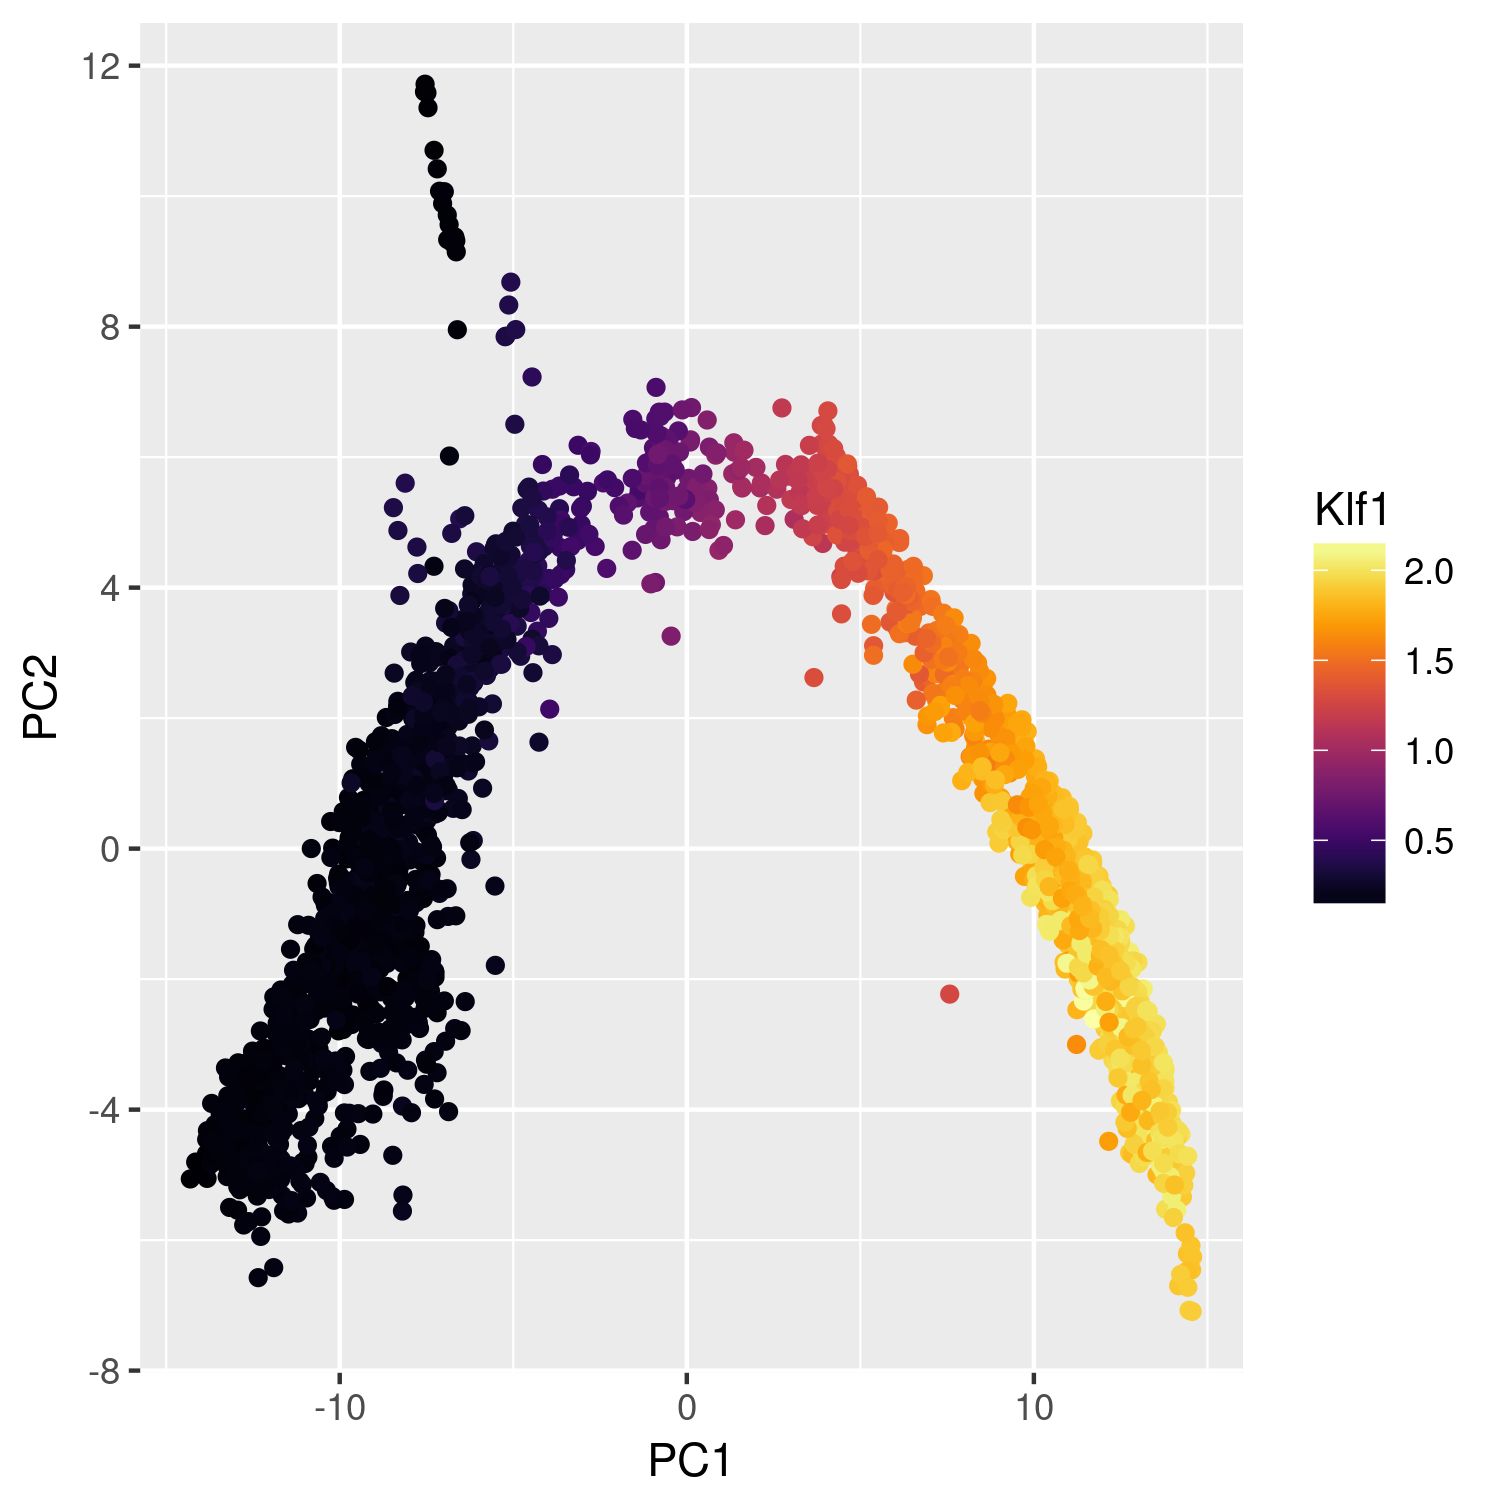
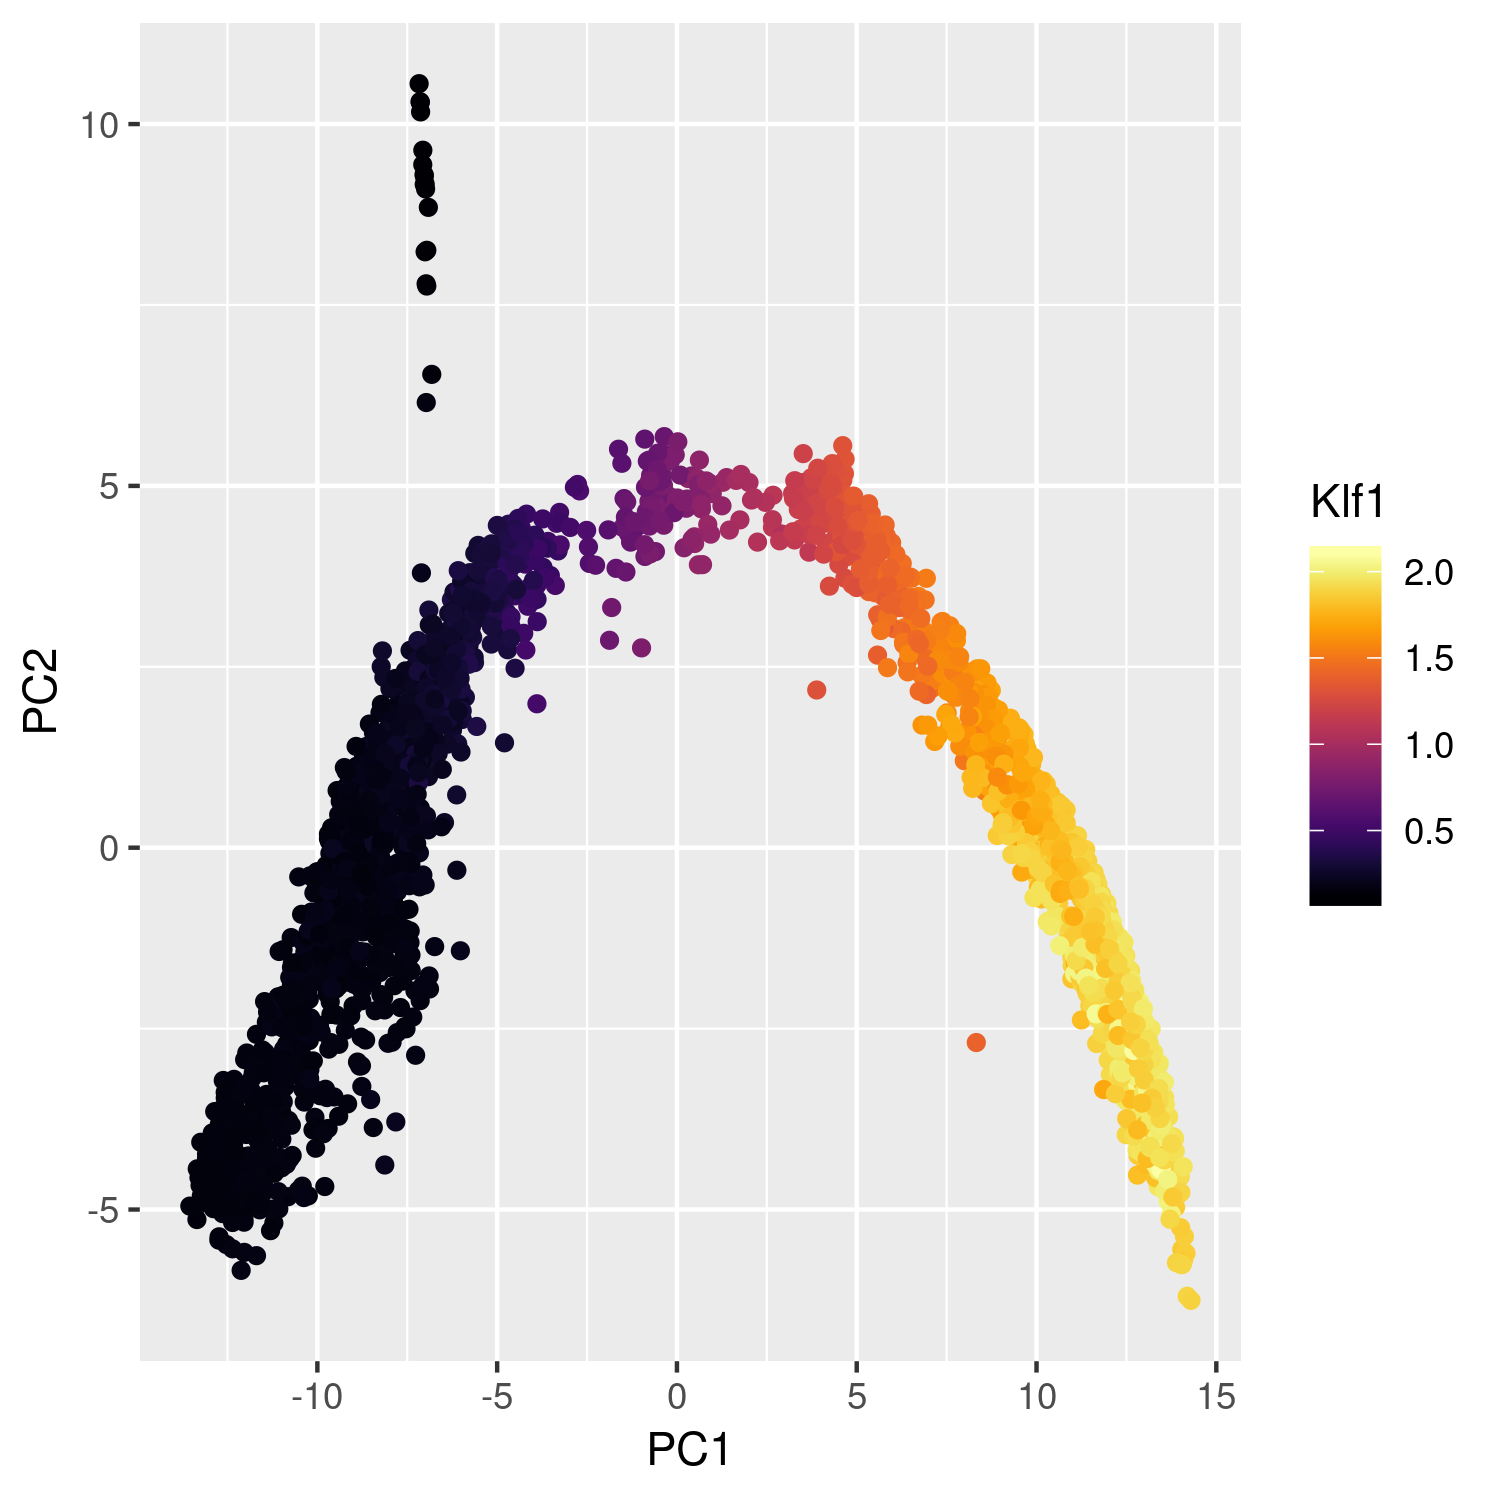
update tutorials

diff --git a/Rmagic/inst/examples/bonemarrow_tutorial.md b/Rmagic/inst/examples/bonemarrow_tutorial.md
@@ -78,11 +78,11 @@ library(viridis)
 library(phateR)
 ```
 
-    ##
+    ## 
     ## Attaching package: 'phateR'
 
     ## The following object is masked from 'package:Rmagic':
-    ##
+    ## 
     ##     library.size.normalize
 
 ### Loading data
@@ -196,57 +196,29 @@ marker, and Mpo is a myeloid marker.
 
 The data is a little too smooth - we can decrease `t` from the automatic
 value to reduce the amount of diffusion. We pass the original result to
-the argument `init` to avoid recomputing intermediate
-steps.
+the argument `init` to avoid recomputing intermediate steps.
 
 ``` r
-bmmsc_MAGIC <- magic(bmmsc, genes=c("Mpo", "Klf1", "Ifitm1"), t=4, init=bmmsc_MAGIC)
+bmmsc_MAGIC <- magic(bmmsc, genes=c("Mpo", "Klf1", "Ifitm1"), 
+                     t=4, init=bmmsc_MAGIC)
 ggplot(bmmsc_MAGIC) +
   geom_point(aes(Mpo, Klf1, colour=Ifitm1)) +
   scale_colour_viridis(option="B")
 ```
 
-![](bonemarrow_tutorial_files/figure-gfm/unnamed-chunk-3-1.png)<!-- -->
+![](bonemarrow_tutorial_files/figure-gfm/decrease_t-1.png)<!-- -->
 
 ``` r
 ggsave('BMMSC_data_R_after_magic.png', width=5, height=5)
 ```
 
-We can look at the entire smoothed matrix with `genes='all_genes'`,
-passing the original result to the argument `init` to avoid recomputing
-intermediate steps. Note that this matrix may be large and could take up
-a lot of memory.
-
-``` r
-bmmsc_MAGIC <- magic(bmmsc, genes="all_genes", t=4, init=bmmsc_MAGIC)
-as.data.frame(bmmsc_MAGIC)[1:5, 1:10]
-```
-
-    ##   0610007C21Rik;Apr3 0610007L01Rik 0610007P08Rik;Rad26l 0610007P14Rik
-    ## 1          0.1518517     0.4808969           0.05179379     0.3415315
-    ## 2          0.1230258     0.3904692           0.12708682     0.3880762
-    ## 3          0.1344016     0.5496261           0.06617484     0.3745274
-    ## 4          0.1132422     0.3812295           0.11713295     0.3683106
-    ## 5          0.1417958     0.4637729           0.04572850     0.3465252
-    ##   0610007P22Rik 0610009B22Rik 0610009D07Rik 0610009O20Rik
-    ## 1    0.02452145    0.05066031    0.06728059     0.1611080
-    ## 2    0.04026323    0.07548813    0.11778619     0.3763095
-    ## 3    0.02323954    0.05561339    0.05379475     0.1802045
-    ## 4    0.03597300    0.06506830    0.08923059     0.3736334
-    ## 5    0.02303185    0.05190157    0.05275807     0.1621462
-    ##   0610010F05Rik;mKIAA1841;Kiaa1841 0610010K14Rik;Rnasek
-    ## 1                       0.03023858            1.0447754
-    ## 2                       0.03823837            0.9875507
-    ## 3                       0.04074101            1.0408079
-    ## 4                       0.03201622            1.0149211
-    ## 5                       0.02737464            0.9940195
-
 ### Visualizing MAGIC values on PCA
 
-We can visualize the results of MAGIC on PCA as follows.
+We can visualize the results of MAGIC on PCA with `genes="pca_only"`.
 
 ``` r
-bmmsc_MAGIC_PCA <- as.data.frame(prcomp(bmmsc_MAGIC)$x)
+bmmsc_MAGIC_PCA <- magic(bmmsc, genes="pca_only", 
+                         t=4, init=bmmsc_MAGIC)
 ggplot(bmmsc_MAGIC_PCA) +
   geom_point(aes(x=PC1, y=PC2, color=bmmsc_MAGIC$result$Klf1)) +
   scale_color_viridis(option="B") +
@@ -277,6 +249,39 @@ ggplot(bmmsc_PHATE) +
 ggsave('BMMSC_data_R_phate_colored_by_magic.png', width=5, height=5)
 ```
 
+### Using MAGIC for downstream analysis
+
+We can look at the entire smoothed matrix with `genes='all_genes'`,
+passing the original result to the argument `init` to avoid recomputing
+intermediate steps. Note that this matrix may be large and could take up
+a lot of memory.
+
+``` r
+bmmsc_MAGIC <- magic(bmmsc, genes="all_genes", 
+                     t=4, init=bmmsc_MAGIC)
+as.data.frame(bmmsc_MAGIC)[1:5, 1:10]
+```
+
+    ##   0610007C21Rik;Apr3 0610007L01Rik 0610007P08Rik;Rad26l 0610007P14Rik
+    ## 1          0.1549824     0.4679229           0.04833548     0.3375627
+    ## 2          0.1258027     0.3985109           0.12145880     0.3823707
+    ## 3          0.1413302     0.5435405           0.06683477     0.3800269
+    ## 4          0.1174019     0.3926025           0.11427759     0.3681400
+    ## 5          0.1448539     0.4639641           0.04619264     0.3501628
+    ##   0610007P22Rik 0610009B22Rik 0610009D07Rik 0610009O20Rik
+    ## 1    0.02389823    0.05000459    0.06770403     0.1619621
+    ## 2    0.03938288    0.07441909    0.12164666     0.3746967
+    ## 3    0.02385330    0.05705996    0.06572649     0.1827189
+    ## 4    0.03613569    0.06550685    0.09894108     0.3700848
+    ## 5    0.02237849    0.05214152    0.05640094     0.1646388
+    ##   0610010F05Rik;mKIAA1841;Kiaa1841 0610010K14Rik;Rnasek
+    ## 1                       0.02761702            1.0343910
+    ## 2                       0.03653270            0.9662523
+    ## 3                       0.04163247            1.0368219
+    ## 4                       0.03174709            0.9917525
+    ## 5                       0.02760502            1.0007198
+
 ## Help
 
-If you have any questions or require assistance using MAGIC, please contact us at <https://krishnaswamylab.org/get-help>.
+If you have any questions or require assistance using MAGIC, please
+contact us at <https://krishnaswamylab.org/get-help>.

diff --git a/Rmagic/inst/examples/emt_tutorial.md b/Rmagic/inst/examples/emt_tutorial.md
@@ -78,11 +78,11 @@ library(viridis)
 library(phateR)
 ```
 
-    ##
+    ## 
     ## Attaching package: 'phateR'
 
     ## The following object is masked from 'package:Rmagic':
-    ##
+    ## 
     ##     library.size.normalize
 
 ### Loading data
@@ -198,38 +198,15 @@ ggsave('EMT_data_R_after_magic.png', width=5, height=5)
 ```
 
 As you can see, the gene-gene relationships are much clearer after
-MAGIC. We can look at the entire smoothed matrix with
-`genes='all_genes'`, passing the original result to the argument `init`
-to avoid recomputing intermediate steps. Note that this matrix may be
-large and could take up a lot of memory.
-
-``` r
-data_MAGIC <- magic(data, k=15, genes="all_genes", init=data_MAGIC)
-as.data.frame(data_MAGIC)[1:5, 1:10]
-```
-
-    ##          A1BG   A1BG-AS1       A2ML1      A4GALT      AAAS      AACS
-    ## 1 0.001854893 0.02881591 0.008900173 0.012437242 0.1272436 0.2203742
-    ## 2 0.001133693 0.03286448 0.011011072 0.006169585 0.1264281 0.2170346
-    ## 3 0.002097424 0.02698868 0.008464190 0.013413017 0.1277215 0.2207171
-    ## 4 0.003076367 0.03379555 0.019677135 0.017580554 0.1052129 0.2326787
-    ## 5 0.001704564 0.02785588 0.007650259 0.010583328 0.1302630 0.2196815
-    ##        AADAT     AAED1     AAGAB      AAK1
-    ## 1 0.03026436 0.1445250 0.2745069 0.6526160
-    ## 2 0.02708794 0.1486098 0.2743147 0.6408745
-    ## 3 0.03088562 0.1448863 0.2745518 0.6522863
-    ## 4 0.02384704 0.1466735 0.2638890 0.6601329
-    ## 5 0.03078958 0.1448066 0.2767862 0.6450917
+MAGIC.
 
 ### Visualizing MAGIC values on PCA
 
-We can visualize the results of MAGIC on PCA as follows.
+We can visualize the results of MAGIC on PCA with `genes="pca_only"`.
 
 ``` r
-gt <- reticulate::import("graphtools")
-dat <- gt$base$Data(as.matrix(data_MAGIC$result), n_pca=2L)
-data_MAGIC_PCA <- as.data.frame(dat$data_nu) # as.data.frame(prcomp(data_MAGIC)$x)
-colnames(data_MAGIC_PCA) <- c("PC1", "PC2")
+data_MAGIC_PCA <- magic(data, genes="pca_only", 
+                        k=15, init=data_MAGIC)
 ggplot(data_MAGIC_PCA) +
   geom_point(aes(x=PC1, y=PC2, color=data_MAGIC$result$VIM)) +
   scale_color_viridis(option="B") +
@@ -242,6 +219,33 @@ ggplot(data_MAGIC_PCA) +
 ggsave('EMT_data_R_pca_colored_by_magic.png', width=5, height=5)
 ```
 
+### Using MAGIC for downstream analysis
+
+We can look at the entire smoothed matrix with `genes='all_genes'`,
+passing the original result to the argument `init` to avoid recomputing
+intermediate steps. Note that this matrix may be large and could take up
+a lot of memory.
+
+``` r
+data_MAGIC <- magic(data, genes="all_genes", 
+                    k=15, init=data_MAGIC)
+as.data.frame(data_MAGIC)[1:5, 1:10]
+```
+
+    ##          A1BG   A1BG-AS1       A2ML1      A4GALT      AAAS      AACS
+    ## 1 0.001839592 0.02876726 0.008686110 0.012471223 0.1274074 0.2205920
+    ## 2 0.001104917 0.03285876 0.010440814 0.006188766 0.1265774 0.2170516
+    ## 3 0.002082237 0.02697853 0.008503791 0.013469548 0.1276566 0.2208905
+    ## 4 0.003121141 0.03391476 0.019349338 0.017437881 0.1053139 0.2323029
+    ## 5 0.001686928 0.02783747 0.007459623 0.010616114 0.1303800 0.2198455
+    ##        AADAT     AAED1     AAGAB      AAK1
+    ## 1 0.03046543 0.1442079 0.2745806 0.6525354
+    ## 2 0.02730860 0.1485649 0.2754257 0.6392821
+    ## 3 0.03098135 0.1446796 0.2742247 0.6526963
+    ## 4 0.02378804 0.1464825 0.2638087 0.6597285
+    ## 5 0.03099255 0.1444643 0.2769162 0.6451414
+
 ## Help
 
-If you have any questions or require assistance using MAGIC, please contact us at <https://krishnaswamylab.org/get-help>.
+If you have any questions or require assistance using MAGIC, please
+contact us at <https://krishnaswamylab.org/get-help>.
